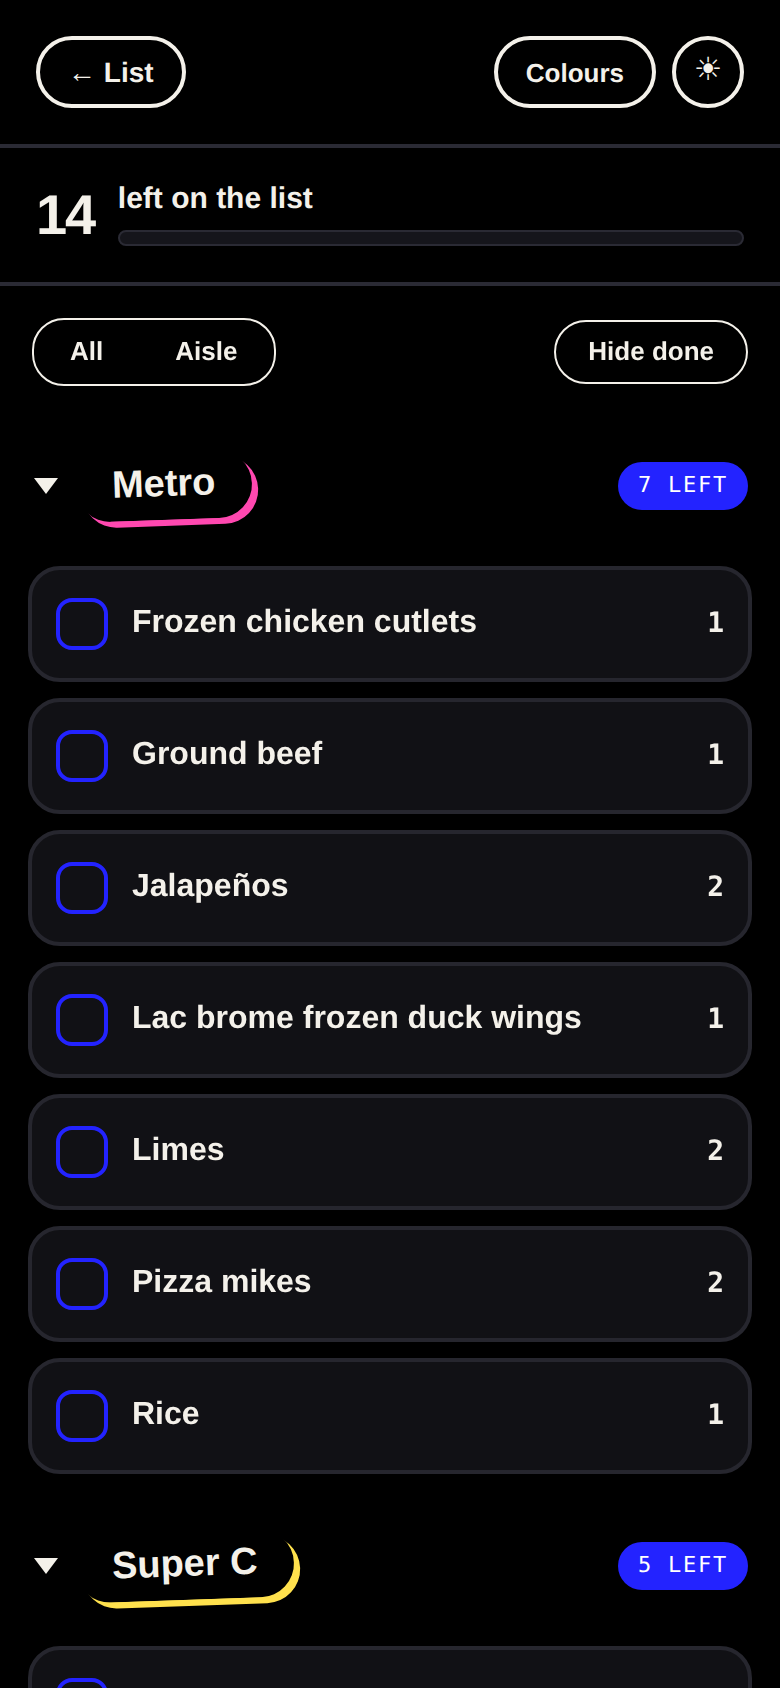
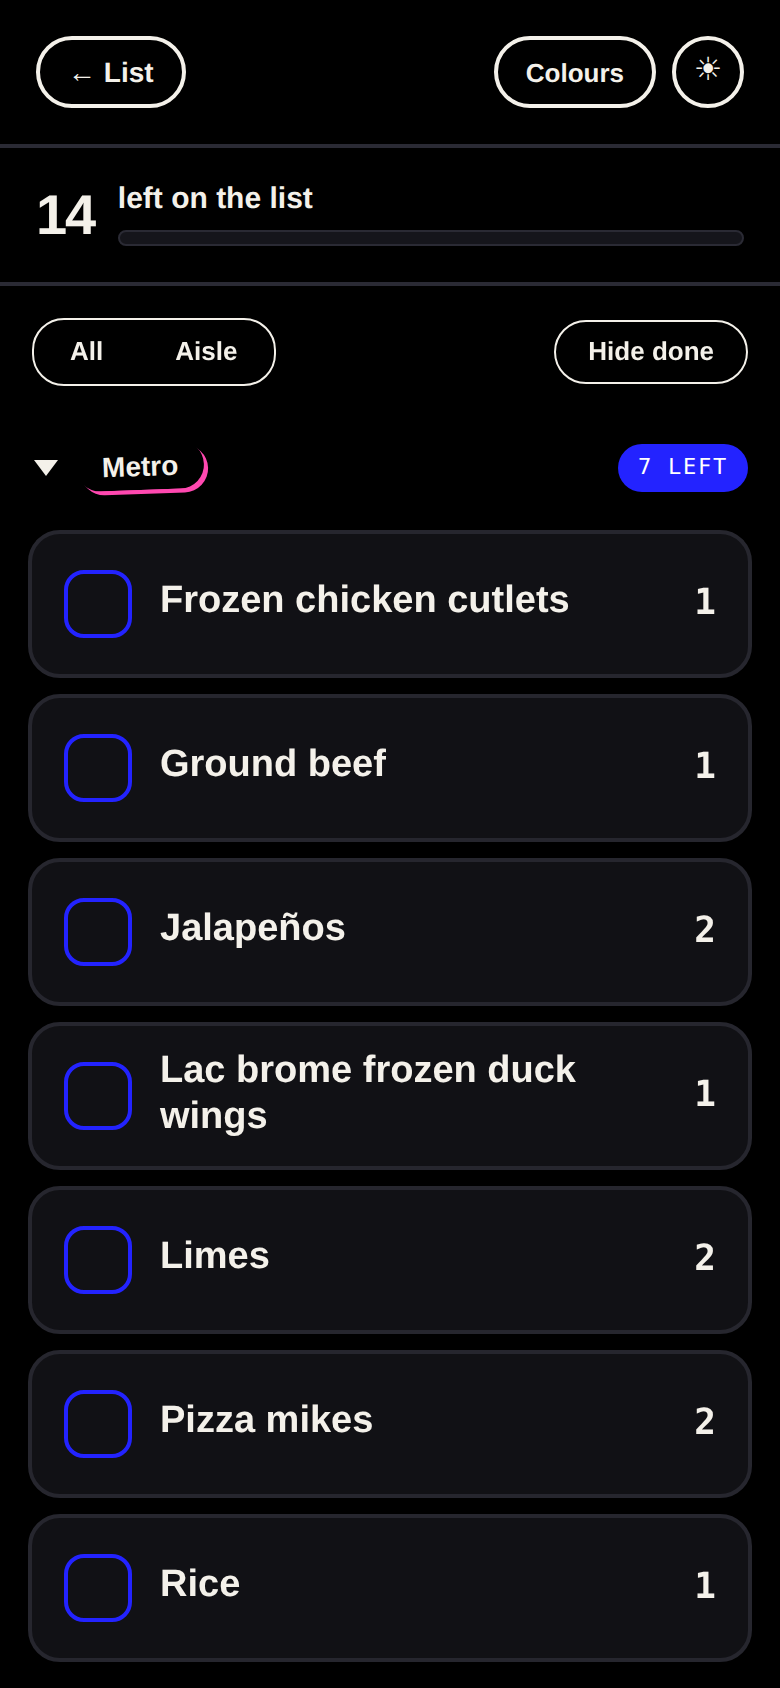
Store mode: smaller store stickers, bigger item cards
After trying it on a phone: the sticker is 14 px type with a 2 px shadow and a
shorter header (was 19 px), and the item card is at least 72 px tall with a
34 px box, 19 px name and 18 px number (was 52 / 26 / 16 / 14). Screenshots and
the sticker shadow in the tests follow.

Claude-Session: https://claude.ai/code/session_01P6gKk3TQsEzWZVFPMy5Arm

Changed region(s): [[0.0308, 0.2464, 0.9846, 1.0]]

diff --git a/client/src/index.css b/client/src/index.css
@@ -19468,7 +19468,7 @@ body.no-select {
   --sm-card-border: #26262e;
   --sm-muted: #9a9aa8;
   --sm-track: #15151b;
-  --gi-min: 52px;
+  --gi-min: 72px;
   position: fixed;
   inset: 0;
   z-index: 90;
@@ -19664,13 +19664,13 @@ body.no-select {
   top: 0;
   z-index: 3;
   margin: 0 -14px;
-  padding: 10px 14px 8px;
+  padding: 8px 14px 6px;
   background: var(--sm-bg);
   display: flex;
   align-items: center;
   justify-content: space-between;
   gap: 10px;
-  min-height: 48px;
+  min-height: 34px;
   box-sizing: content-box;
 }
 
@@ -19712,11 +19712,11 @@ body.no-select {
   display: inline-block;
   max-width: 100%;
   box-sizing: border-box;
-  padding: 4px 16px;
+  padding: 2px 11px;
   border: 2px solid transparent;
   border-radius: 999px;
   transform: rotate(-2deg);
-  font: 800 19px/1.15 var(--riso-font-display);
+  font: 800 14px/1.15 var(--riso-font-display);
   white-space: nowrap;
   overflow: hidden;
   text-overflow: ellipsis;
@@ -19749,11 +19749,11 @@ body.no-select {
 .store-mode .store-mode-row {
   display: flex;
   align-items: center;
-  gap: 12px;
+  gap: 14px;
   box-sizing: border-box;
   width: 100%;
-  height: max(var(--gi-min, 52px), var(--gi-h, 0px));
-  padding: 8px 12px;
+  height: max(var(--gi-min, 72px), var(--gi-h, 0px));
+  padding: 12px 16px;
   border: 2px solid var(--sm-card-border);
   border-radius: 16px;
   background: var(--sm-card);
@@ -19768,17 +19768,17 @@ body.no-select {
 
 .store-mode-check {
   flex: none;
-  width: 26px;
-  height: 26px;
+  width: 34px;
+  height: 34px;
   box-sizing: border-box;
-  border-radius: 8px;
+  border-radius: 10px;
   border: 2px solid var(--sm-accent);
   background: transparent;
   color: #fff;
   display: flex;
   align-items: center;
   justify-content: center;
-  font: 800 14px/1 var(--riso-font-display);
+  font: 800 18px/1 var(--riso-font-display);
 }
 
 .store-mode-row.on .store-mode-check {
@@ -19794,7 +19794,7 @@ body.no-select {
 }
 
 .store-mode-name {
-  font: 700 16px/1.2 var(--riso-font-display);
+  font: 700 19px/1.2 var(--riso-font-display);
   overflow-wrap: break-word;
 }
 
@@ -19806,7 +19806,7 @@ body.no-select {
   flex: none;
   text-align: right;
   white-space: nowrap;
-  font: 700 14px var(--riso-font-mono);
+  font: 700 18px var(--riso-font-mono);
 }
 
 /* The sheets that rise from the bottom (leave, added, store colours). */
@@ -19903,8 +19903,8 @@ body.no-select {
 }
 
 .store-mode-colour-name .store-mode-sticker {
-  font-size: 16px;
-  padding: 4px 14px;
+  font-size: 14px;
+  padding: 3px 12px;
 }
 
 .store-mode-colour-wheel {

diff --git a/e2e/store-mode.spec.js b/e2e/store-mode.spec.js
@@ -77,7 +77,7 @@ test("Store mode is one list with a section for each store, in a sticker you can
   const sticker = metro.locator(".store-mode-sticker");
   expect(await sticker.evaluate((e) => [getComputedStyle(e).backgroundColor, getComputedStyle(e).boxShadow])).toEqual([
     "rgb(0, 0, 0)",
-    "rgb(255, 72, 176) 3px 3px 0px 0px",
+    "rgb(255, 72, 176) 2px 2px 0px 0px",
   ]);
 
   // Tapping the sticker folds the store; the count stays.
@@ -212,18 +212,18 @@ test("the sticker colours: change one with a hex or RGB code, see a bad one, res
   const metro = sheet.getByRole("textbox", { name: "Colour of Metro" });
   await metro.fill("37, 99, 235");
   const sticker = mode.locator(".store-mode-store", { hasText: "Metro" }).locator(".store-mode-sticker");
-  await expect(sticker).toHaveCSS("box-shadow", "rgb(37, 99, 235) 3px 3px 0px 0px");
+  await expect(sticker).toHaveCSS("box-shadow", "rgb(37, 99, 235) 2px 2px 0px 0px");
   await metro.fill("pink");
   await expect(metro).toHaveCSS("border-top-color", "rgb(196, 18, 63)"); // not a colour: red border, nothing saved
-  await expect(sticker).toHaveCSS("box-shadow", "rgb(37, 99, 235) 3px 3px 0px 0px");
+  await expect(sticker).toHaveCSS("box-shadow", "rgb(37, 99, 235) 2px 2px 0px 0px");
   await metro.fill("#0f0");
-  await expect(sticker).toHaveCSS("box-shadow", "rgb(0, 255, 0) 3px 3px 0px 0px");
+  await expect(sticker).toHaveCSS("box-shadow", "rgb(0, 255, 0) 2px 2px 0px 0px");
   await sheet.getByRole("button", { name: "Done" }).click();
 
   // Kept on this device.
   await mode.getByRole("button", { name: "← List" }).click();
   await page.getByRole("button", { name: /I'm at the store/ }).click();
-  await expect(page.locator(".store-mode-store", { hasText: "Metro" }).locator(".store-mode-sticker")).toHaveCSS("box-shadow", "rgb(0, 255, 0) 3px 3px 0px 0px");
+  await expect(page.locator(".store-mode-store", { hasText: "Metro" }).locator(".store-mode-sticker")).toHaveCSS("box-shadow", "rgb(0, 255, 0) 2px 2px 0px 0px");
   expect(await page.evaluate(() => localStorage.getItem("mealprep-store-colors"))).toContain("#00FF00");
 
   // Reset goes back to the defaults.

diff --git a/client/src/components/StoreModeParts.jsx b/client/src/components/StoreModeParts.jsx
@@ -14,8 +14,8 @@ const EXAMPLE_COLOUR = "#FF48B0"; // the example in the colour box
 // text (whichever reads better) and an ink border and shadow.
 export function StoreSticker({ name, color, dark, className = "" }) {
   const style = dark
-    ? { background: "#000000", color: "#F4F1EA", borderColor: "transparent", boxShadow: `3px 3px 0 ${color}` }
-    : { background: color, color: textOn(color), borderColor: "#16181F", boxShadow: "3px 3px 0 #16181F" };
+    ? { background: "#000000", color: "#F4F1EA", borderColor: "transparent", boxShadow: `2px 2px 0 ${color}` }
+    : { background: color, color: textOn(color), borderColor: "#16181F", boxShadow: "2px 2px 0 #16181F" };
   return (
     <span className={`store-mode-sticker ${className}`} style={style}>
       {name}

diff --git a/client/src/components/StoreMode.jsx b/client/src/components/StoreMode.jsx
@@ -75,7 +75,7 @@ export function StoreMode({
 
   // Every row is as tall as the one with the longest name (names are never cut).
   const listRef = useRef(null);
-  useEqualRowHeight(listRef, { pad: 10 });
+  useEqualRowHeight(listRef, { pad: 14 });
 
   const total = rows.length;
   const left = rows.filter((r) => !checked[r.item.key]).length;

diff --git a/docs/design/riso-v2-store-mode/README.md b/docs/design/riso-v2-store-mode/README.md
@@ -108,3 +108,4 @@ Where the app differs from the prototype (which has hard-coded sample data):
 - Store sticker colours: Metro, Super C and Fruits du jour have the design's colours; any other store gets one from the palette, always the same one for the same name. Colours are kept per device under `mealprep-store-colors`.
 - "Add to inventory" never adds on its own: it opens the app's Inventory confirmation first (see `CLAUDE.md`). Cancelling that leaves the leave sheet open; confirming shows "Added to your inventory". "Leave without adding" goes back to Grocery and keeps the checks.
 - It is full screen (the phone is the frame), and it opens from Grocery's "I'm at the store" on a phone.
+- Matt asked, after trying it on his iPhone, for smaller stickers and bigger items. The sticker is 14 px type (was 19) with a 2 px shadow, and the item card is 72 px tall at least with a 34 px box, 19 px name and 18 px number (was 52, 26, 16 and 14).
